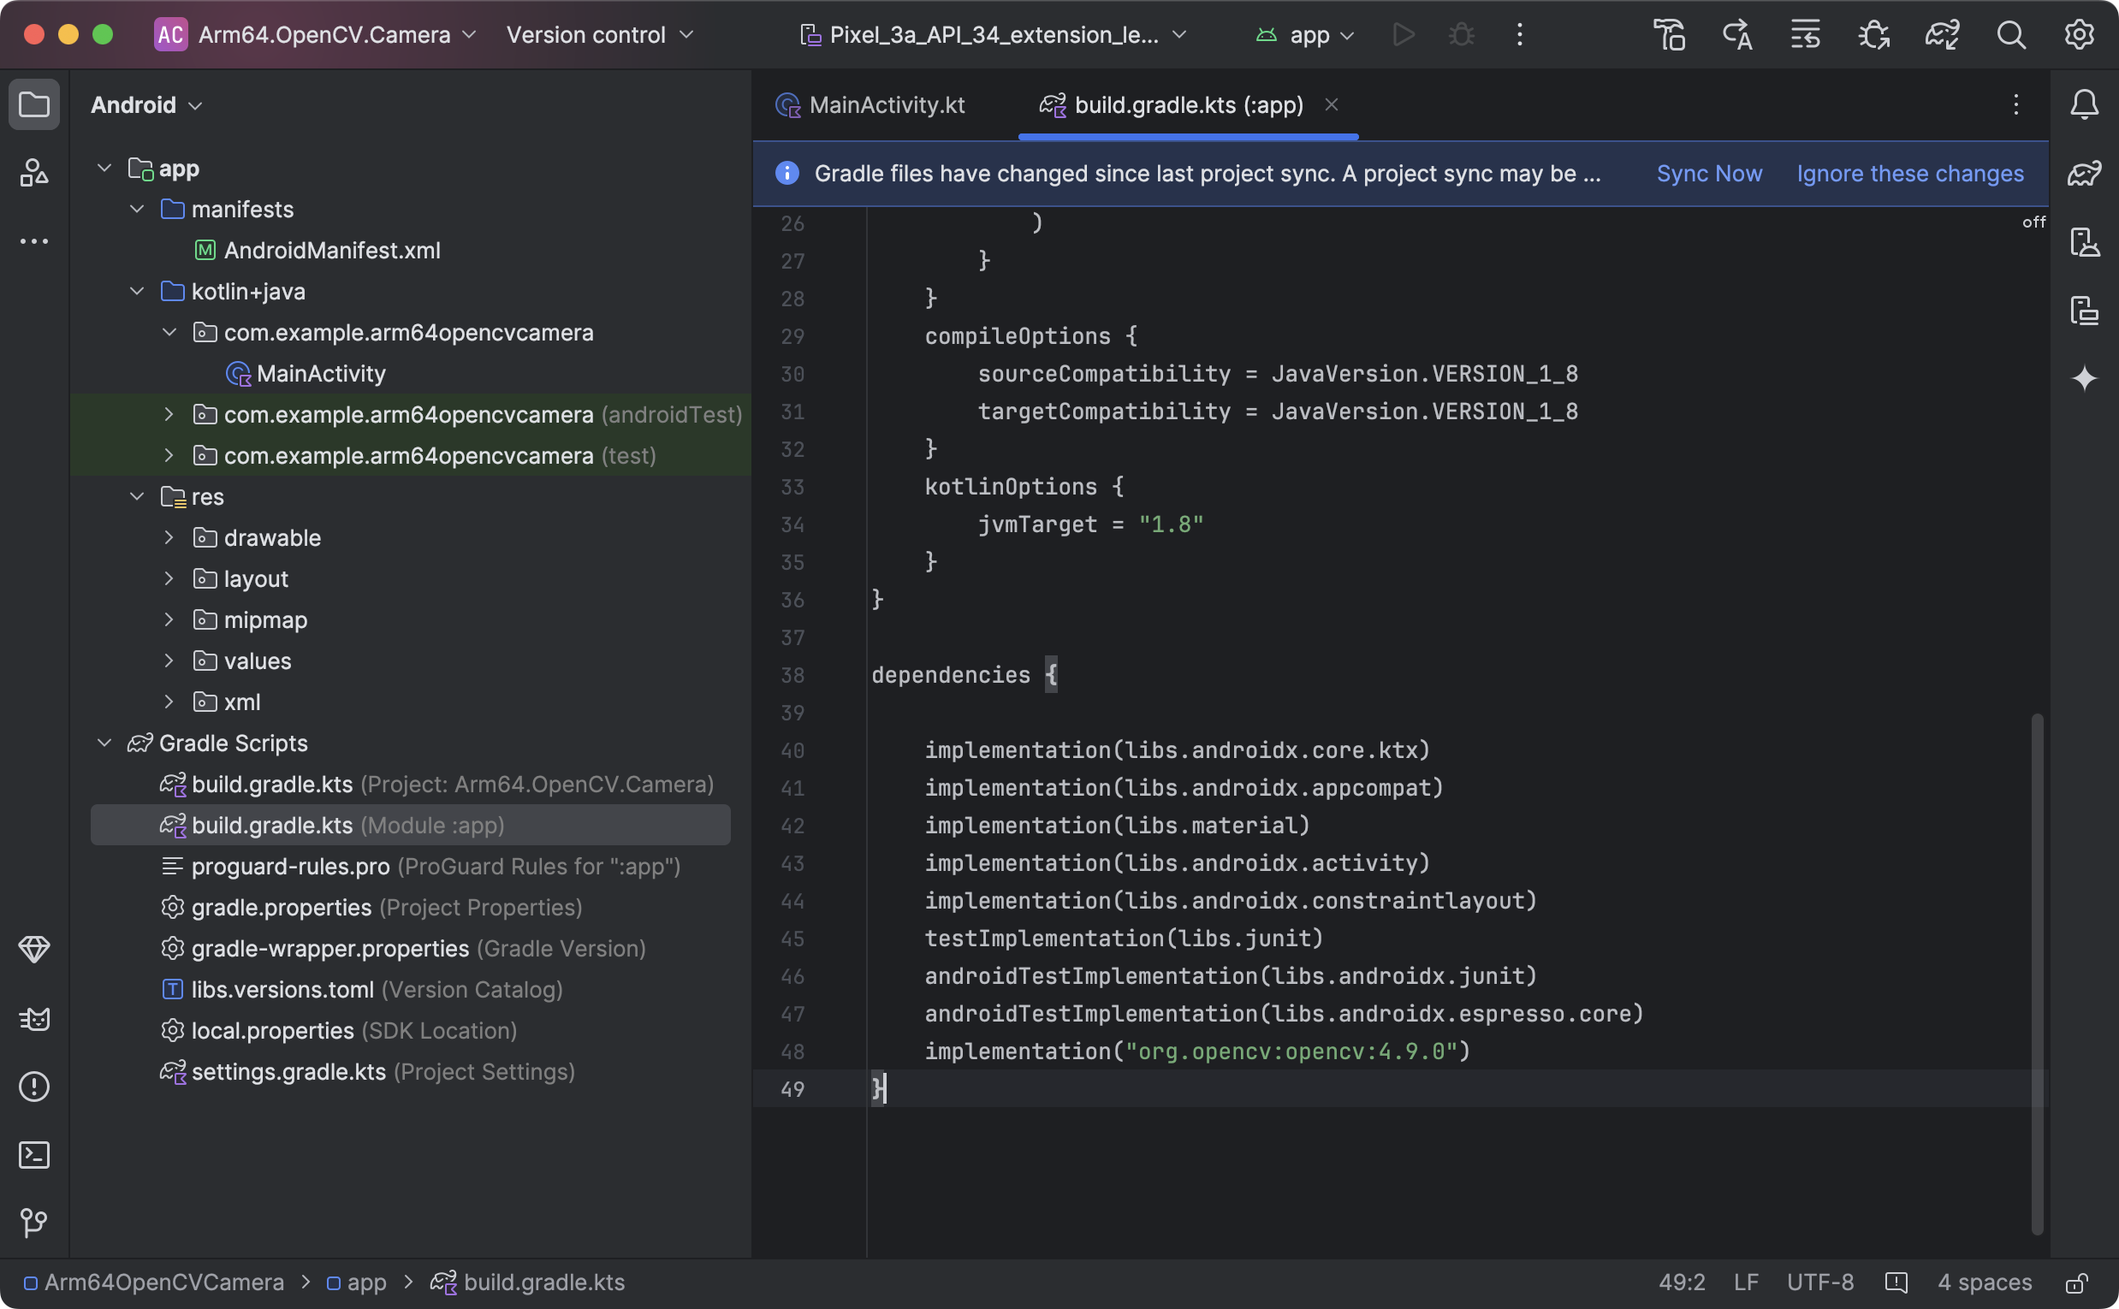
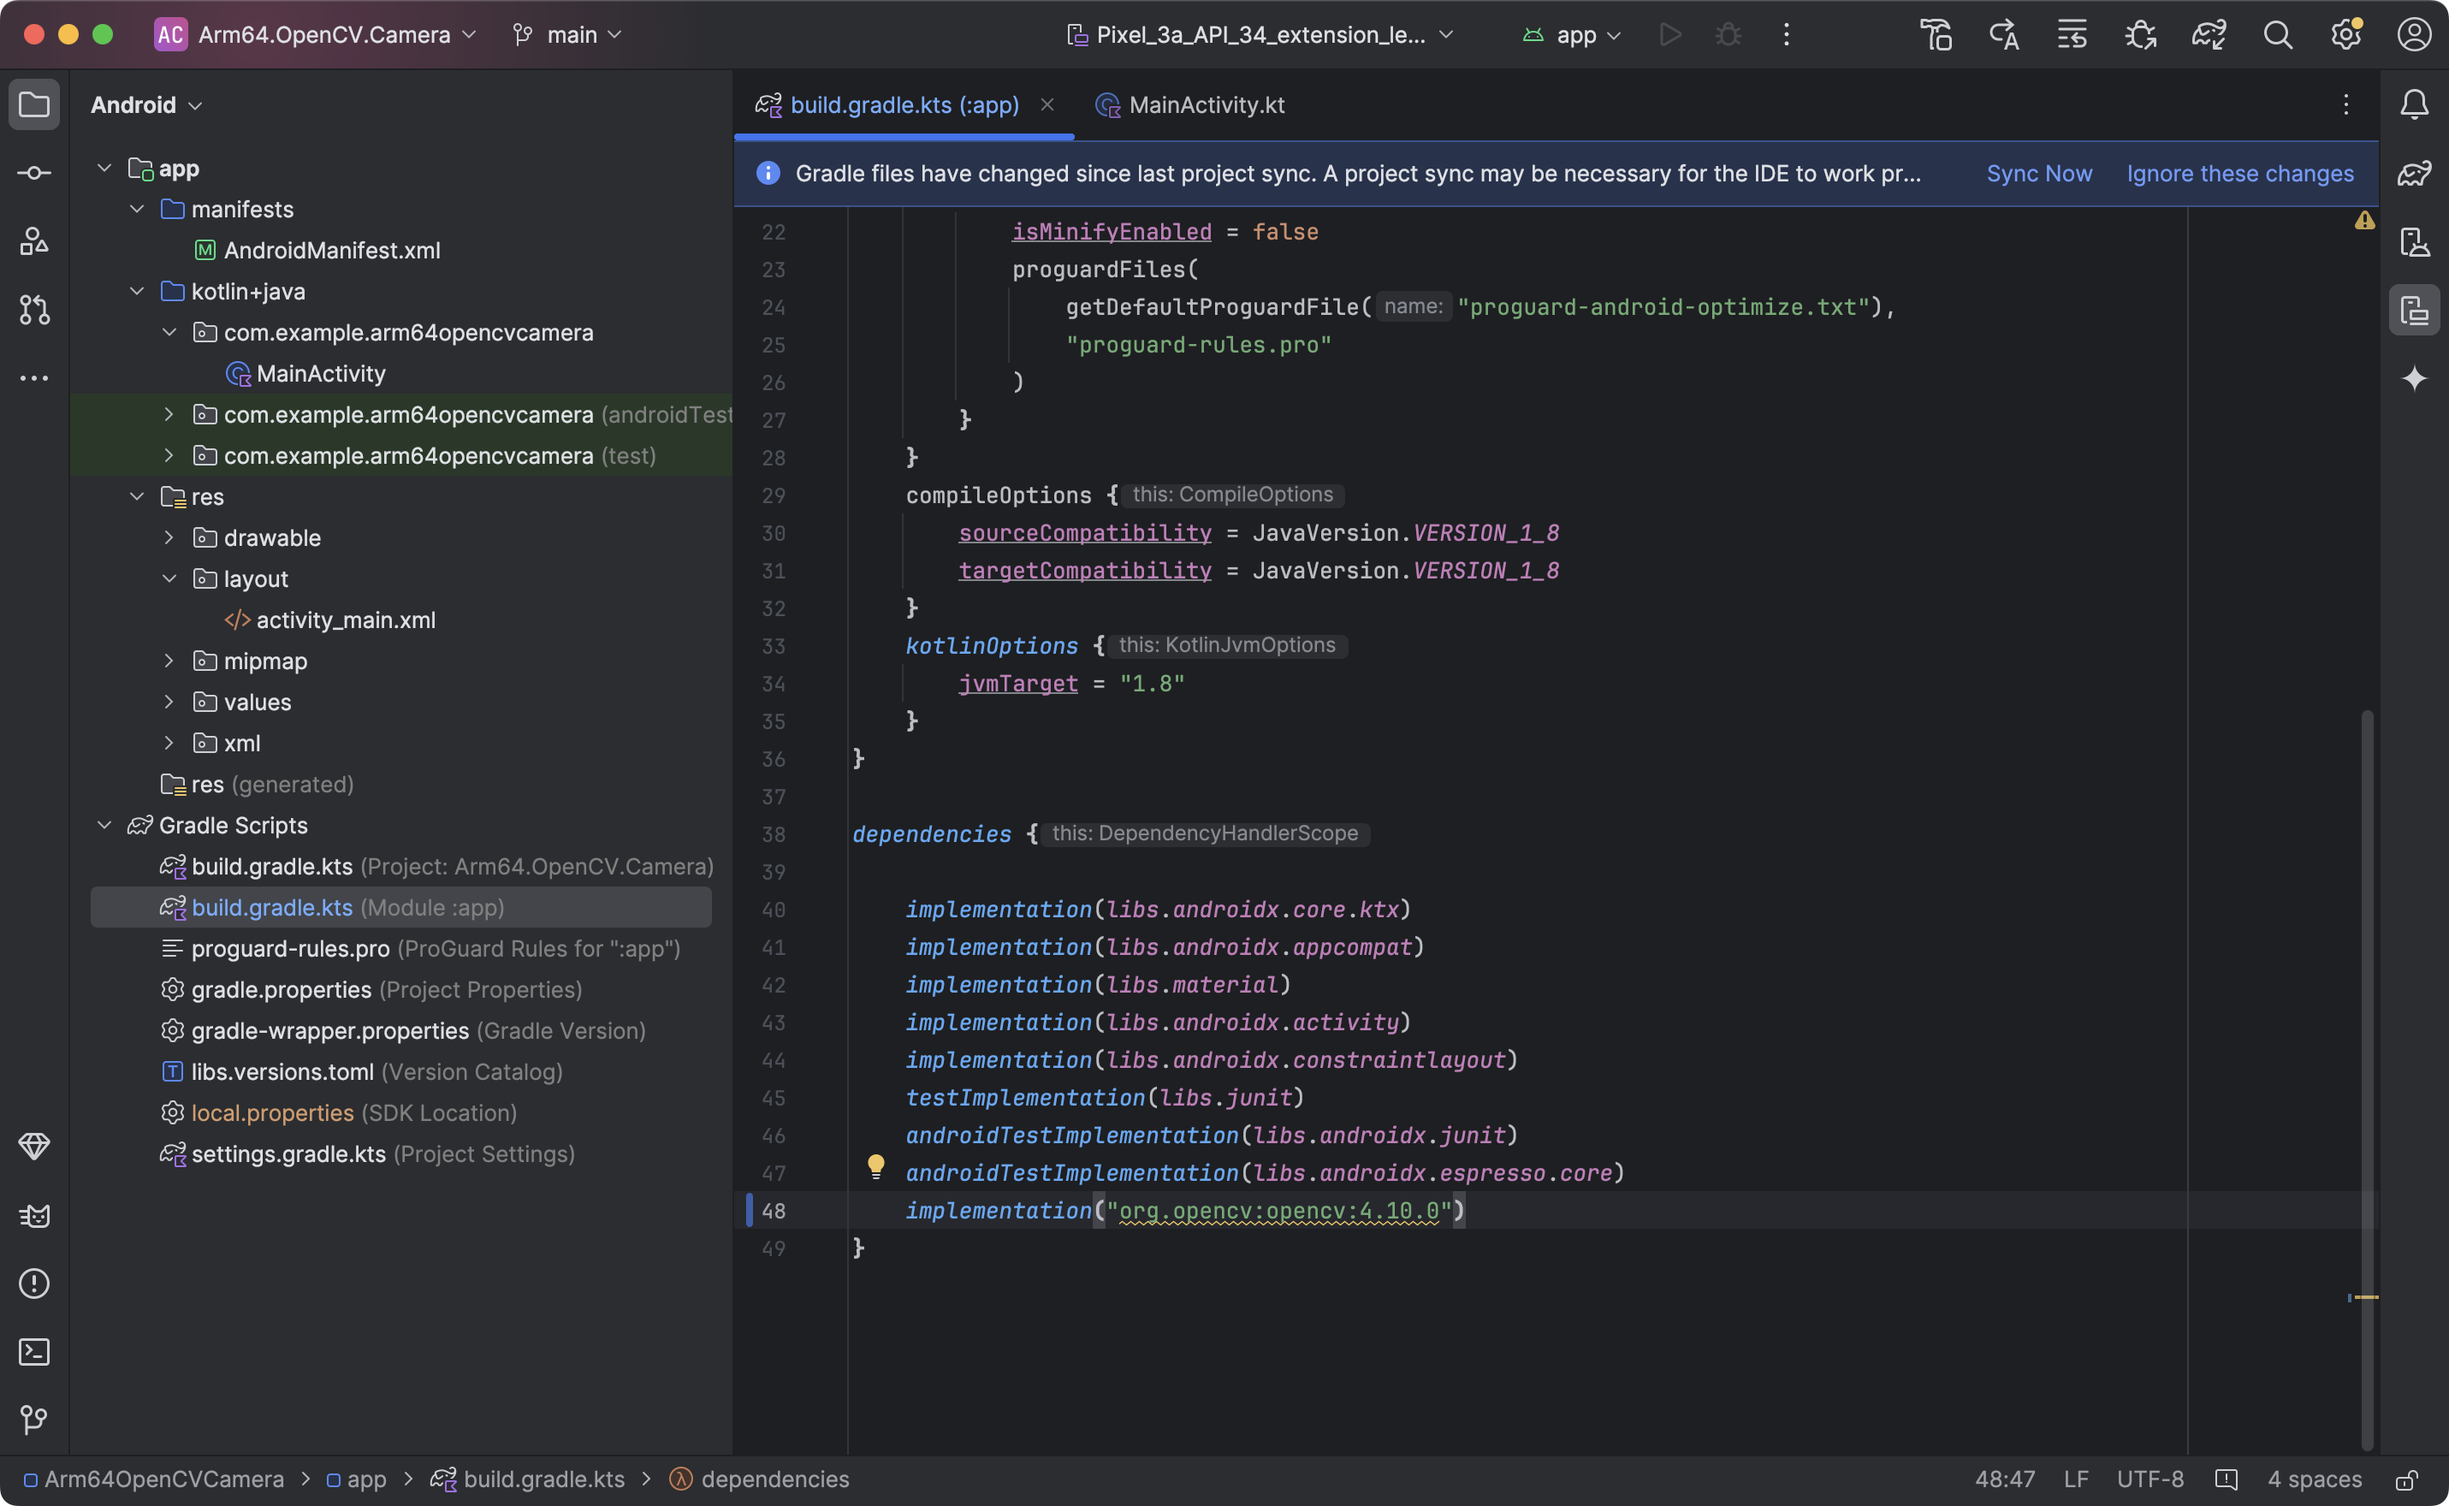
OpenCV update to 4.10

diff --git a/content/learning-paths/smartphones-and-mobile/android_opencv_camera/add-camera.md b/content/learning-paths/smartphones-and-mobile/android_opencv_camera/add-camera.md
@@ -373,29 +373,22 @@ After re-launching the application and pressing the Start button you will see th
 ![img10](Figures/10.png)
 
 ## Display images
-To display images, we need to modify the onCameraFrame method so that the image from the camera is displayed in the ImageView. Along the way, we will declare Mat objects to store the image from the camera. Additionally, we will need to rotate the camera frame before display. When using OpenCV with the Android camera, the camera image might appear rotated due to differences in the coordinate systems used by the camera sensor and the display. This discrepancy arises because:
-1. Camera Sensor Orientation: The physical orientation of the camera sensor may differ from the orientation of the display.
-2. Device Orientation: The device’s orientation (portrait or landscape) affects how the image should be displayed.
-3. Camera API: The Android camera API may not automatically handle the orientation differences between the sensor and the display.
-
-To handle this rotation, you need to detect the current orientation and apply the necessary transformations to the camera frames.
+To display images, we need to modify the onCameraFrame method so that the image from the camera is displayed in the ImageView. Along the way, we will declare Mat objects to store the image from the camera. 
 
 Follow these steps (all changes to be made in the MainActivity.kt):
-1. Declare the Mat objects:
+1. Declare the Mat object:
 
 ```java
 private lateinit var inputMat: Mat
-private lateinit var rotatedMat: Mat
 ```
 
-2. Initialize the above members within the onCameraViewStarted method:
+2. Initialize the above member within the onCameraViewStarted method:
 
 ```java
 override fun onCameraViewStarted(width: Int, height: Int) {
     isPreviewActive = true
 
-    inputMat = Mat(height, width, CvType.CV_8UC4)
-    rotatedMat = Mat(height, width, CvType.CV_8UC4)
+    inputMat = Mat(height, width, CvType.CV_8UC4)    
 
     updateControls()
 }
@@ -407,8 +400,7 @@ override fun onCameraViewStarted(width: Int, height: Int) {
 override fun onCameraViewStopped() {
     isPreviewActive = false
 
-    inputMat.release()
-    rotatedMat.release()
+    inputMat.release()    
 
     updateControls()
 }
@@ -420,19 +412,8 @@ override fun onCameraViewStopped() {
 override fun onCameraFrame(inputFrame: CameraBridgeViewBase.CvCameraViewFrame?): Mat {
     inputFrame!!.rgba().copyTo(inputMat)
 
-    // Get the current rotation of the display
-    val displayRotation = (getSystemService(WINDOW_SERVICE) as WindowManager).defaultDisplay.rotation
-
-    // Rotate the frame based on the display rotation
-    when (displayRotation) {
-        Surface.ROTATION_0 -> Core.rotate(inputMat, rotatedMat, Core.ROTATE_90_CLOCKWISE)
-        Surface.ROTATION_90 -> inputMat.copyTo(rotatedMat)
-        Surface.ROTATION_180 -> Core.rotate(inputMat, rotatedMat, Core.ROTATE_90_COUNTERCLOCKWISE)
-        Surface.ROTATION_270 -> Core.rotate(inputMat, rotatedMat, Core.ROTATE_180)
-    }
-
-    val bitmapToDisplay = Bitmap.createBitmap(rotatedMat.cols(), rotatedMat.rows(), Bitmap.Config.ARGB_8888)
-    Utils.matToBitmap(rotatedMat, bitmapToDisplay)
+    val bitmapToDisplay = Bitmap.createBitmap(inputMat.cols(), inputMat.rows(), Bitmap.Config.ARGB_8888)
+    Utils.matToBitmap(inputMat, bitmapToDisplay)
 
     // Display it on UI Thread
     runOnUiThread {
@@ -442,8 +423,6 @@ override fun onCameraFrame(inputFrame: CameraBridgeViewBase.CvCameraViewFrame?):
     return inputMat
 }
 ```
-
-This code adjusts the rotation of the camera frames based on the device’s current display rotation. This ensures that the camera preview appears correctly oriented on the screen.
 
 To test the code, you will need to run the application on an actual device. Follow [these steps](https://developer.android.com/studio/run/device).
 
@@ -466,8 +445,7 @@ private lateinit var processedMat: Mat
 override fun onCameraViewStarted(width: Int, height: Int) {
     isPreviewActive = true
 
-    inputMat = Mat(height, width, CvType.CV_8UC4)
-    rotatedMat = Mat(height, width, CvType.CV_8UC4)
+    inputMat = Mat(height, width, CvType.CV_8UC4)    
     processedMat = Mat(height, width, CvType.CV_8UC1)
 
     updateControls()
@@ -476,8 +454,7 @@ override fun onCameraViewStarted(width: Int, height: Int) {
 override fun onCameraViewStopped() {
     isPreviewActive = false
 
-    inputMat.release()
-    rotatedMat.release()
+    inputMat.release()    
     processedMat.release()
 
     updateControls()
@@ -490,20 +467,9 @@ override fun onCameraViewStopped() {
 override fun onCameraFrame(inputFrame: CameraBridgeViewBase.CvCameraViewFrame?): Mat {
     inputFrame!!.rgba().copyTo(inputMat)
 
-    // Get the current rotation of the display
-    val displayRotation = (getSystemService(WINDOW_SERVICE) as WindowManager).defaultDisplay.rotation
-
-    // Rotate the frame based on the display rotation
-    when (displayRotation) {
-        Surface.ROTATION_0 -> Core.rotate(inputMat, rotatedMat, Core.ROTATE_90_CLOCKWISE)
-        Surface.ROTATION_90 -> inputMat.copyTo(rotatedMat)
-        Surface.ROTATION_180 -> Core.rotate(inputMat, rotatedMat, Core.ROTATE_90_COUNTERCLOCKWISE)
-        Surface.ROTATION_270 -> Core.rotate(inputMat, rotatedMat, Core.ROTATE_180)
-    }
-
-    var matToDisplay = rotatedMat
+    var matToDisplay = inputMat
     if(checkBoxProcessing.isChecked) {
-        Imgproc.cvtColor(rotatedMat, processedMat, Imgproc.COLOR_RGBA2GRAY)
+        Imgproc.cvtColor(inputMat, processedMat, Imgproc.COLOR_RGBA2GRAY)
         Imgproc.adaptiveThreshold(
             processedMat, processedMat, 255.0,
             Imgproc.ADAPTIVE_THRESH_GAUSSIAN_C,
@@ -526,7 +492,7 @@ override fun onCameraFrame(inputFrame: CameraBridgeViewBase.CvCameraViewFrame?):
 }
 ```
 
-The major modification we added here is the following: If the CheckBox checkBoxProcessing is checked, the frame is converted to grayscale and an adaptive thresholding operation is applied. matToDisplay is set to the processed frame if processing is enabled; otherwise, it remains as the rotated frame.
+The major modification we added here is the following: If the CheckBox checkBoxProcessing is checked, the frame is converted to grayscale and an adaptive thresholding operation is applied. matToDisplay is set to the processed frame if processing is enabled; otherwise, it remains as the input frame.
 
 To process the image, we use the Imgproc.adaptiveThreshold, which is an OpenCV function that applies adaptive thresholding to a grayscale image. Before we can apply thresholding, we convert the color image to grayscale using the Imgproc.cvtColor OpenCV function.
 
@@ -539,6 +505,6 @@ After re-running the application, starting the preview, and enabling the process
 ![img12](Figures/12.jpg)
 
 ## Summary
-In this learning path, we enhanced an Android application to capture and process camera images using OpenCV. First, we integrated the OpenCV library into our Android project. Then, we requested and handled camera permissions to ensure the app could access the device’s camera. Afterward, we set up the JavaCameraView to capture real-time frames from the camera. We declared and initialized Mat objects to store and process camera frames. Also, we detected the device’s current orientation and applied the necessary rotation to ensure the camera preview appears correctly oriented. Finally, we implemented adaptive thresholding using OpenCV’s Imgproc.adaptiveThreshold to process the camera frames when a CheckBox is checked.
+In this learning path, we enhanced an Android application to capture and process camera images using OpenCV. First, we integrated the OpenCV library into our Android project. Then, we requested and handled camera permissions to ensure the app could access the device’s camera. Afterward, we set up the JavaCameraView to capture real-time frames from the camera. We declared and initialized Mat objects to store and process camera frames. Finally, we implemented adaptive thresholding using OpenCV’s Imgproc.adaptiveThreshold to process the camera frames when a CheckBox is checked.
 
-By following these steps, we successfully created an Android application that captures real-time images from the camera, processes them using OpenCV, and displays the processed images, demonstrating both image rotation handling and adaptive thresholding.
+By following these steps, we successfully created an Android application that captures real-time images from the camera, processes them using OpenCV, and displays the processed images, demonstrating adaptive thresholding.

diff --git a/content/learning-paths/smartphones-and-mobile/android_opencv_camera/create-project.md b/content/learning-paths/smartphones-and-mobile/android_opencv_camera/create-project.md
@@ -40,7 +40,7 @@ The project will be ready in a few moments, and Android Studio should look as sh
 To add OpenCV for arm64, open the *build.gradle.ts (Module: app)*, and add the following line under the dependencies:
 
 ```JSON
-implementation("org.opencv:opencv:4.9.0")
+implementation("org.opencv:opencv:4.10.0")
 ```
 
 Then, click the **Sync Now** link in the top pane that appears:

diff --git a/content/learning-paths/smartphones-and-mobile/android_opencv_camera/background.md b/content/learning-paths/smartphones-and-mobile/android_opencv_camera/background.md
@@ -34,3 +34,5 @@ The learning path is divided into three major how-to sections:
 1. Creating and configuring the project to use OpenCV.
 2. Extending the project to access the device’s camera and retrieve camera frames with OpenCV.
 3. Processing camera images using OpenCV.
+
+You can find the companion code [here](https://github.com/dawidborycki/Arm64OpenCVCamera.git)
